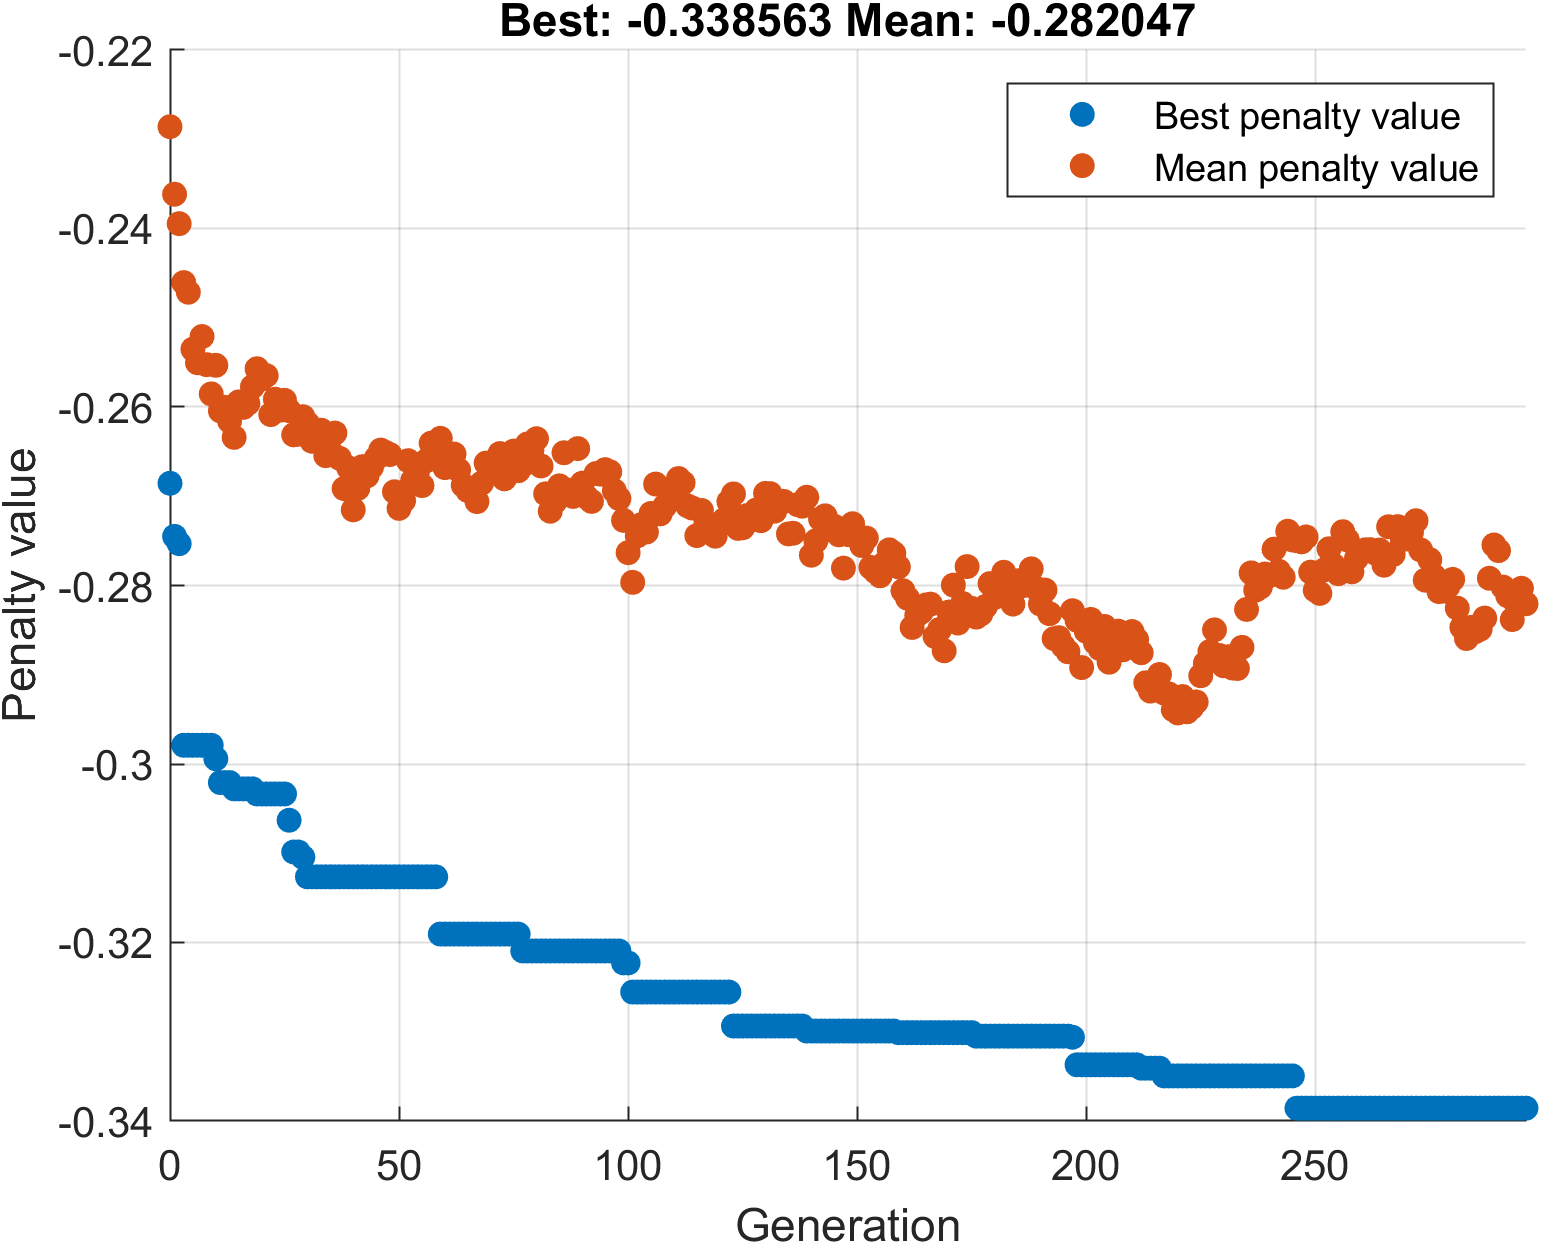
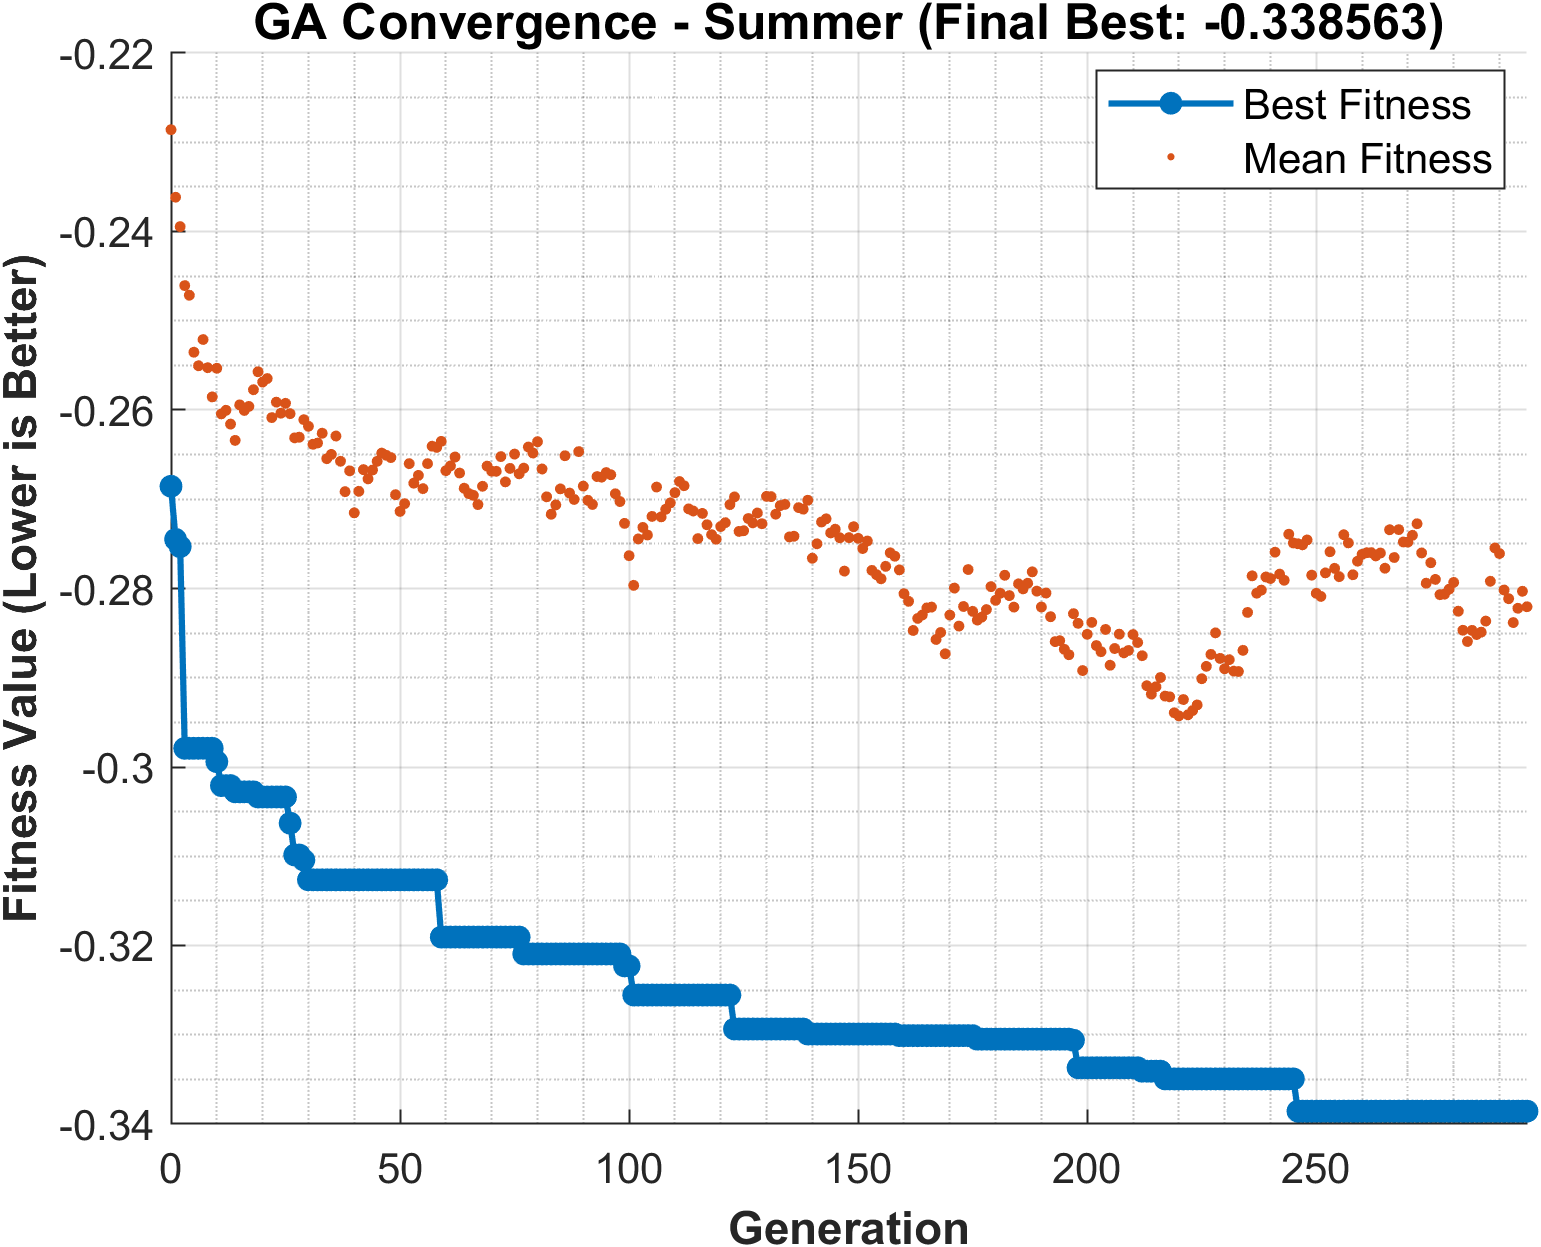
better plots

diff --git a/run_smart_home_ga.m b/run_smart_home_ga.m
@@ -5,16 +5,10 @@ fprintf('Setting up GA for Smart Home Optimization...\n');
 
 % --- 0. Setup ---
 rng(421011, 'twister'); % Set the random seed for reproducibility
-
-% Define the results directory name
 resultsDir = 'results';
-
-% Define full paths for output files within the results directory
 outputFileName = fullfile(resultsDir, 'results_summary.md');
 summerPlotFileName = fullfile(resultsDir, 'GA_Convergence_Summer.png');
 winterPlotFileName = fullfile(resultsDir, 'GA_Convergence_Winter.png');
-
-% Create the results directory if it doesn't exist
 if ~exist(resultsDir, 'dir')
     fprintf('Creating results directory: %s\n', resultsDir);
     mkdir(resultsDir);
@@ -32,19 +26,15 @@ end
 
 % --- 2. Define GA Parameters ---
 nVars = 72;
-lb_single_hour = [1, 1, 1];
-ub_single_hour = [4, 5, 3];
-lb = repmat(lb_single_hour, 1, 24);
-ub = repmat(ub_single_hour, 1, 24);
+lb_single_hour = [1, 1, 1]; ub_single_hour = [4, 5, 3];
+lb = repmat(lb_single_hour, 1, 24); ub = repmat(ub_single_hour, 1, 24);
 IntCon = 1:nVars;
-
 populationSize = 100;
 maxGenerations = 300;
-% Base options - create copies later if needed to ensure separate plots
 options_base = optimoptions('ga', ...
     'PopulationSize', populationSize, ...
     'MaxGenerations', maxGenerations, ...
-    'PlotFcn', @gaplotbestf, ...
+    'PlotFcn', @gaplotbestf, ... % Keep the basic plot function
     'Display', 'final', ...
     'FunctionTolerance', 1e-6, ...
     'UseParallel', false);
@@ -52,53 +42,47 @@ options_base = optimoptions('ga', ...
 % --- 3. Run GA for Peak Summer ---
 fprintf('\n--- Running GA for Peak Summer ---\n');
 fitnessFunctionSummer = @(x) calculateFitness(x, summerData);
-options_summer = optimoptions(options_base); % Use a copy for summer run
-[x_summer, fval_summer, exitflag_summer, output_summer, population_summer, scores_summer] = ga(fitnessFunctionSummer, nVars, [], [], [], [], lb, ub, [], IntCon, options_summer);
-
+options_summer = optimoptions(options_base);
+[x_summer, fval_summer, exitflag_summer, output_summer, ~, ~] = ga(fitnessFunctionSummer, nVars, [], [], [], [], lb, ub, [], IntCon, options_summer);
 fprintf('\n--- GA Run for Summer Complete ---\n');
 fprintf('Best Fitness Found (Summer): %f\n', fval_summer);
 
-% --- Find, Rename, and Save Summer Plot ---
-fig_summer = findobj(0, 'Type', 'Figure', 'Name', 'Genetic Algorithm'); % Find the default GA plot figure
+% --- Find, Enhance, and Save Summer Plot ---
+fig_summer = findobj(0, 'Type', 'Figure', 'Name', 'Genetic Algorithm');
 if ~isempty(fig_summer)
-    % Rename the figure window
+    % Rename the figure window (optional)
     set(fig_summer, 'Name', 'GA Convergence - Summer', 'NumberTitle', 'off');
-    fprintf('Renamed Summer plot window.\n');
-    % Save plot to the results directory using the defined path
+    % Enhance the plot using the helper function
+    enhanceGAPlot(fig_summer, 'GA Convergence - Summer', fval_summer); % <<< CALL HELPER
+    % Save plot
     exportgraphics(fig_summer, summerPlotFileName, 'Resolution', 300);
-    fprintf('Saved Summer convergence plot to %s\n', summerPlotFileName);
+    fprintf('Saved enhanced Summer convergence plot to %s\n', summerPlotFileName);
 else
     fprintf('Warning: Could not find GA plot figure for Summer.\n');
-    fig_summer = []; % Ensure handle is empty if not found
+    fig_summer = [];
 end
-
 
 % --- 4. Run GA for Peak Winter ---
 fprintf('\n--- Running GA for Peak Winter ---\n');
 fitnessFunctionWinter = @(x) calculateFitness(x, winterData);
-% Use a fresh copy of options to potentially create a new plot window
 options_winter = optimoptions(options_base);
-[x_winter, fval_winter, exitflag_winter, output_winter, population_winter, scores_winter] = ga(fitnessFunctionWinter, nVars, [], [], [], [], lb, ub, [], IntCon, options_winter);
-
+[x_winter, fval_winter, exitflag_winter, output_winter, ~, ~] = ga(fitnessFunctionWinter, nVars, [], [], [], [], lb, ub, [], IntCon, options_winter);
 fprintf('\n--- GA Run for Winter Complete ---\n');
 fprintf('Best Fitness Found (Winter): %f\n', fval_winter);
 
-% --- Find, Rename, and Save Winter Plot ---
-% Search for the figure named 'Genetic Algorithm' AGAIN.
-% It might be a new figure, or it might have reused the old one if it wasn't closed.
+% --- Find, Enhance, and Save Winter Plot ---
 fig_winter_current = findobj(0, 'Type', 'Figure', 'Name', 'Genetic Algorithm');
-
 if ~isempty(fig_winter_current)
-    % Check if it reused the summer figure window (optional warning)
     if ~isempty(fig_summer) && ishandle(fig_summer) && fig_winter_current == fig_summer
-         fprintf('Warning: Winter GA plot might have reused the Summer plot window. Renaming and saving as Winter.\n');
+         fprintf('Warning: Winter GA plot reused the Summer plot window. Enhancing for Winter.\n');
     end
-    % Always rename the *current* figure found after the winter run
+    % Rename the figure window (optional)
     set(fig_winter_current, 'Name', 'GA Convergence - Winter', 'NumberTitle', 'off');
-    fprintf('Renamed Winter plot window.\n');
-    % Save the *current* figure as the Winter plot
+    % Enhance the plot using the helper function
+    enhanceGAPlot(fig_winter_current, 'GA Convergence - Winter', fval_winter); % <<< CALL HELPER
+    % Save plot
     exportgraphics(fig_winter_current, winterPlotFileName, 'Resolution', 300);
-    fprintf('Saved Winter convergence plot to %s\n', winterPlotFileName);
+    fprintf('Saved enhanced Winter convergence plot to %s\n', winterPlotFileName);
 else
      fprintf('Warning: Could not find GA plot figure for Winter.\n');
 end
@@ -107,90 +91,50 @@ end
 % --- 5. Process and Save Results to File ---
 % ... (rest of your results processing and saving code remains the same) ...
 fprintf('\n--- Processing and Saving Results to %s ---\n', outputFileName);
-
-% Decode the optimal chromosomes
 schedule_summer = decodeSchedule(x_summer, summerData, 'Summer');
 schedule_winter = decodeSchedule(x_winter, winterData, 'Winter');
-
-% Calculate final raw scores for the best solutions
 [comfort_S, energy_S, avgComfort_S, avgEnergy_S] = getFinalScores(x_summer, summerData);
 [comfort_W, energy_W, avgComfort_W, avgEnergy_W] = getFinalScores(x_winter, winterData);
-
-% Open the file for writing (uses the full path defined earlier)
 fid = fopen(outputFileName, 'w');
-if fid == -1
-    error('Cannot open file %s for writing.', outputFileName);
-end
-
-% Write Header
+if fid == -1; error('Cannot open file %s for writing.', outputFileName); end
 fprintf(fid, '# Smart Home GA Optimization Results\n\n');
 fprintf(fid, 'Date Run: %s\n', datestr(now));
 fprintf(fid, 'GA Parameters:\n');
 fprintf(fid, '- Population Size: %d\n', populationSize);
 fprintf(fid, '- Max Generations: %d\n', maxGenerations);
-fprintf(fid, '- Random Seed: %d\n\n', 421011); % Use the actual seed value used
-
-% --- Summer Results ---
+fprintf(fid, '- Random Seed: %d\n\n', 421011);
 fprintf(fid, '## Peak Summer (July) Results\n\n');
 fprintf(fid, '**GA Performance:**\n');
 fprintf(fid, '- Final Best Fitness (Minimized Value): %.4f\n', fval_summer);
 fprintf(fid, '- Exit Flag: %d\n', exitflag_summer);
 fprintf(fid, '- Generations Run: %d\n\n', output_summer.generations);
-
 fprintf(fid, '**Optimal Schedule Performance Metrics:**\n');
 fprintf(fid, '- Total Comfort Score (Higher is better, Max ~24): %.4f\n', comfort_S);
 fprintf(fid, '- Average Hourly Comfort Score (Higher is better, Max ~1): %.4f\n', avgComfort_S);
 fprintf(fid, '- Total Energy Cost (Lower is better, arbitrary units): %.4f\n', energy_S);
 fprintf(fid, '- Average Hourly Energy Cost (Lower is better): %.4f\n\n', avgEnergy_S);
-
 fprintf(fid, '**Optimal Schedule (Summer):**\n\n');
-% Convert table to Markdown format string (Corrected)
-header = sprintf('| %s | %s | %s | %s | %s |', schedule_summer.Properties.VariableNames{:}); % No newline here
-separator = regexprep(header, '[^|]', '-'); % Create separator based on header structure
-fprintf(fid, '%s\n', header); % Print header with newline
-fprintf(fid, '%s\n', separator); % Print separator with newline
-for i = 1:height(schedule_summer)
-    fprintf(fid, '| %d | %s | %s | %s | %s |\n', ... % Keep this loop the same
-            schedule_summer.Hour(i), ...
-            schedule_summer.Thermostat{i}, ...
-            schedule_summer.Lighting{i}, ...
-            schedule_summer.Blinds{i}, ...
-            schedule_summer.Notes{i});
-end
-fprintf(fid, '\n');
-
-% --- Winter Results ---
+header = sprintf('| %s | %s | %s | %s | %s |', schedule_summer.Properties.VariableNames{:});
+separator = regexprep(header, '[^|]', '-');
+fprintf(fid, '%s\n%s\n', header, separator);
+for i = 1:height(schedule_summer); fprintf(fid, '| %d | %s | %s | %s | %s |\n', schedule_summer.Hour(i), schedule_summer.Thermostat{i}, schedule_summer.Lighting{i}, schedule_summer.Blinds{i}, schedule_summer.Notes{i}); end; fprintf(fid, '\n');
 fprintf(fid, '## Peak Winter (January) Results\n\n');
 fprintf(fid, '**GA Performance:**\n');
 fprintf(fid, '- Final Best Fitness (Minimized Value): %.4f\n', fval_winter);
 fprintf(fid, '- Exit Flag: %d\n', exitflag_winter);
 fprintf(fid, '- Generations Run: %d\n\n', output_winter.generations);
-
 fprintf(fid, '**Optimal Schedule Performance Metrics:**\n');
 fprintf(fid, '- Total Comfort Score (Higher is better, Max ~24): %.4f\n', comfort_W);
 fprintf(fid, '- Average Hourly Comfort Score (Higher is better, Max ~1): %.4f\n', avgComfort_W);
 fprintf(fid, '- Total Energy Cost (Lower is better, arbitrary units): %.4f\n', energy_W);
 fprintf(fid, '- Average Hourly Energy Cost (Lower is better): %.4f\n\n', avgEnergy_W);
-
 fprintf(fid, '**Optimal Schedule (Winter):**\n\n');
-% Convert table to Markdown format string (Corrected)
-header = sprintf('| %s | %s | %s | %s | %s |', schedule_winter.Properties.VariableNames{:}); % No newline here
-separator = regexprep(header, '[^|]', '-'); % Create separator
-fprintf(fid, '%s\n', header); % Print header with newline
-fprintf(fid, '%s\n', separator); % Print separator with newline
-for i = 1:height(schedule_winter)
-    fprintf(fid, '| %d | %s | %s | %s | %s |\n', ... % Keep this loop the same
-            schedule_winter.Hour(i), ...
-            schedule_winter.Thermostat{i}, ...
-            schedule_winter.Lighting{i}, ...
-            schedule_winter.Blinds{i}, ...
-            schedule_winter.Notes{i});
-end
-fprintf(fid, '\n');
-
-% Close the file
+header = sprintf('| %s | %s | %s | %s | %s |', schedule_winter.Properties.VariableNames{:});
+separator = regexprep(header, '[^|]', '-');
+fprintf(fid, '%s\n%s\n', header, separator);
+for i = 1:height(schedule_winter); fprintf(fid, '| %d | %s | %s | %s | %s |\n', schedule_winter.Hour(i), schedule_winter.Thermostat{i}, schedule_winter.Lighting{i}, schedule_winter.Blinds{i}, schedule_winter.Notes{i}); end; fprintf(fid, '\n');
 fclose(fid);
-fprintf('Results successfully saved to %s\n', outputFileName); % Uses the path defined earlier
+fprintf('Results successfully saved to %s\n', outputFileName);
 
 % --- 6. Display Summary to Console ---
 % ... (console summary remains the same) ...
@@ -204,3 +148,9 @@ fprintf('Total Energy Cost          | %11.4f | %11.4f\n', energy_S, energy_W);
 fprintf('Avg Hourly Energy          | %11.4f | %11.4f\n', avgEnergy_S, avgEnergy_W);
 
 fprintf('\nScript finished.\n');
+
+% --- Helper Function Definition (if not in separate file) ---
+% Paste the enhanceGAPlot function code here if you didn't save it separately
+% function enhanceGAPlot(figHandle, plotTitle, bestFitnessValue)
+%    ... (function code from Step 1) ...
+% end

diff --git a/enhanceGAPlot.m b/enhanceGAPlot.m
@@ -1,0 +1,118 @@
+% --- Helper Function to Enhance GA Plot (Corrected for Scatter Objects) ---
+function enhanceGAPlot(figHandle, plotTitle, bestFitnessValue)
+    % Enhances the plot generated by gaplotbestf, handling Scatter objects
+
+    if isempty(figHandle) || ~ishandle(figHandle)
+        fprintf('Warning: Invalid figure handle passed to enhanceGAPlot.\n');
+        return;
+    end
+
+    % Make the figure current and get its axes
+    figure(figHandle);
+    ax = gca; % Get current axes
+    hold(ax, 'on'); % Ensure we can add the new line plot
+
+    % --- Find the plot objects (Best and Mean scatter) ---
+    kids = get(ax, 'Children');
+    h_scatter_best = [];
+    h_scatter_mean = [];
+    h_line_best = []; % Handle for the NEW line we will create
+
+    % Try finding based on expected DisplayNames (more robust)
+    try
+        h_scatter_best = findobj(kids, 'Type', 'Scatter', 'DisplayName', 'Best penalty value');
+        h_scatter_mean = findobj(kids, 'Type', 'Scatter', 'DisplayName', 'Mean penalty value');
+    catch ME
+        fprintf('Warning: Error finding plot objects by DisplayName: %s. Trying fallback.\n', ME.message);
+    end
+
+    % Fallback if not found by DisplayName (less robust)
+    if isempty(h_scatter_best) || isempty(h_scatter_mean)
+        fprintf('Info: Trying to find scatter objects by order.\n');
+        scatterObjs = findobj(kids, 'Type', 'Scatter');
+        if numel(scatterObjs) >= 2
+             % Assuming findobj returns in reverse plot order: mean first, then best
+             h_scatter_mean = scatterObjs(1);
+             h_scatter_best = scatterObjs(2);
+             fprintf('Found scatter objects by assuming order.\n');
+        elseif numel(scatterObjs) == 1
+             fprintf('Warning: Found only one scatter object. Cannot distinguish Best/Mean reliably by order.\n');
+             % Attempt to identify based on data if possible (more complex)
+             % For now, we might only style the one found or skip styling.
+             h_scatter_mean = scatterObjs(1); % Assign to mean for basic styling
+        else
+            fprintf('Error: Could not reliably identify Best/Mean scatter objects.\n');
+            % Proceed with other enhancements anyway
+        end
+    end
+
+    % --- Customize Plot Elements ---
+
+    % 1. Handle BEST fitness: Extract data, plot line, hide original scatter
+    if ~isempty(h_scatter_best) && ishandle(h_scatter_best)
+        x_data_best = h_scatter_best.XData;
+        y_data_best = h_scatter_best.YData;
+
+        % Plot a NEW line connecting the best points
+        h_line_best = plot(ax, x_data_best, y_data_best, ...
+            '-o', ... % Line with circle markers
+            'Color', [0 0.4470 0.7410], ... % MATLAB default blue
+            'LineWidth', 1.5, ...
+            'MarkerSize', 4, ... % Smaller markers on the line
+            'MarkerFaceColor', [0 0.4470 0.7410], ...
+            'DisplayName', 'Best Fitness'); % Set display name for legend
+
+        % Hide the original scatter markers for 'Best' to avoid clutter
+        h_scatter_best.MarkerEdgeAlpha = 0; % Make invisible
+        h_scatter_best.MarkerFaceAlpha = 0;
+        set(h_scatter_best, 'HandleVisibility', 'off'); % Hide from legend auto-update
+
+        fprintf('Applied line style to Best Fitness data.\n');
+    else
+         fprintf('Warning: Could not find or style Best Fitness scatter object.\n');
+    end
+
+    % 2. Handle MEAN fitness: Style the scatter markers
+    if ~isempty(h_scatter_mean) && ishandle(h_scatter_mean)
+        set(h_scatter_mean, ...
+            'Marker', '.', ...           % Small dot marker
+            'SizeData', 80, ...          % Adjust marker size if needed
+            'MarkerEdgeColor', [0.8500 0.3250 0.0980], ... % MATLAB default orange
+            'DisplayName', 'Mean Fitness'); % Update display name
+        fprintf('Styled Mean Fitness scatter object.\n');
+         set(h_scatter_mean, 'HandleVisibility', 'on'); % Ensure it shows in legend
+    else
+         fprintf('Warning: Could not find or style Mean Fitness scatter object.\n');
+    end
+
+    % --- Customize Axes and Title ---
+    title(ax, sprintf('%s (Final Best: %.6f)', plotTitle, bestFitnessValue), ...
+          'FontSize', 12, 'FontWeight', 'bold');
+    xlabel(ax, 'Generation', 'FontSize', 11, 'FontWeight', 'bold');
+    ylabel(ax, 'Fitness Value (Lower is Better)', 'FontSize', 11, 'FontWeight', 'bold');
+    grid(ax, 'on');
+    grid(ax, 'minor');
+
+    % --- Legend ---
+    % Create legend using the NEW line handle and the mean scatter handle
+    handles_to_legend = [];
+    labels_for_legend = {};
+    if ~isempty(h_line_best) && ishandle(h_line_best)
+        handles_to_legend(end+1) = h_line_best;
+        labels_for_legend{end+1} = get(h_line_best, 'DisplayName');
+    end
+     if ~isempty(h_scatter_mean) && ishandle(h_scatter_mean)
+        handles_to_legend(end+1) = h_scatter_mean;
+        labels_for_legend{end+1} = get(h_scatter_mean, 'DisplayName');
+    end
+
+    if ~isempty(handles_to_legend)
+        legend(ax, handles_to_legend, labels_for_legend, 'FontSize', 10, 'Location', 'best');
+    else
+        legend(ax, 'show'); % Fallback to default legend
+        fprintf('Warning: Could not create custom legend; showing default.\n');
+    end
+
+    hold(ax, 'off'); % Release the hold
+    fprintf('Plot enhancements applied for: %s\n', plotTitle);
+end

diff --git a/results/results_summary.md b/results/results_summary.md
@@ -1,6 +1,6 @@
 # Smart Home GA Optimization Results
 
-Date Run: 29-Apr-2025 19:10:18
+Date Run: 29-Apr-2025 19:23:27
 GA Parameters:
 - Population Size: 100
 - Max Generations: 300
